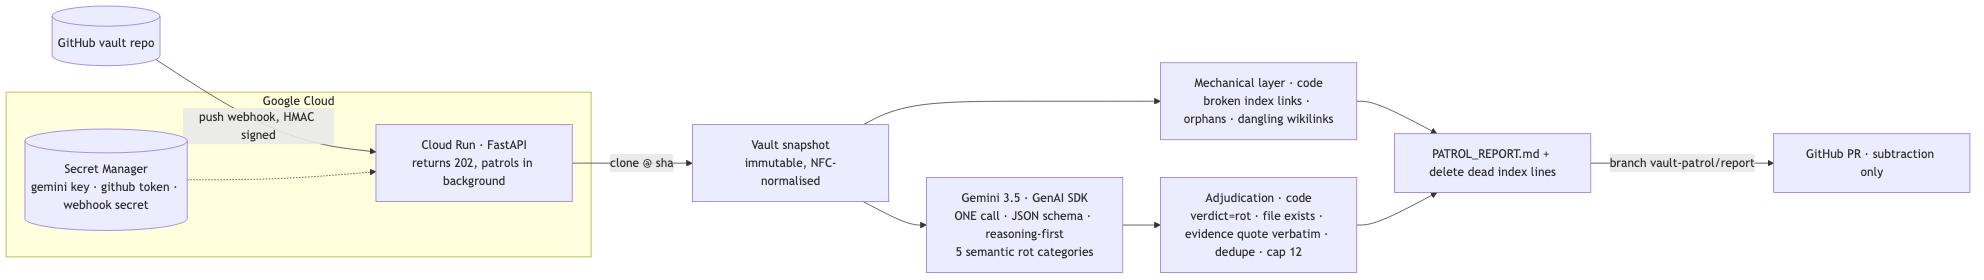
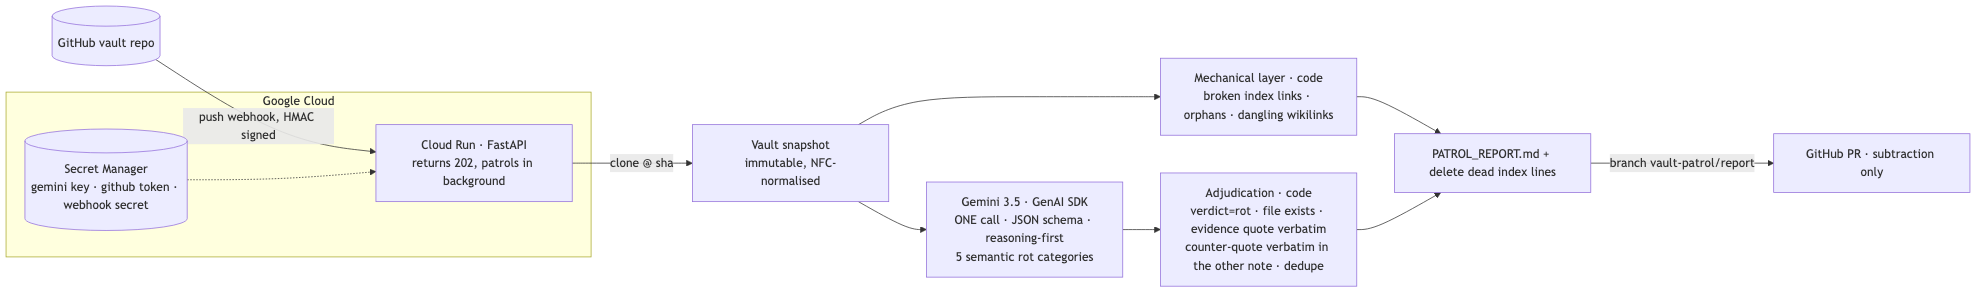
feat: counter-evidence quote for cross-note findings; drop finding cap

diff --git a/patrol/adjudicate.py b/patrol/adjudicate.py
@@ -4,12 +4,22 @@ from __future__ import annotations
 import logging
 import re
 
-from .models import Finding
+from .models import Category, Finding
 from .vault import Vault, nfc
 
 log = logging.getLogger(__name__)
 
-MAX_SEMANTIC_FINDINGS = 12
+# A finding in one of these categories is a claim ABOUT TWO NOTES: it is only true if the other
+# note actually says what the model says it says. So the model must quote that sentence too, and
+# code checks it the same way it checks the first quote. Without this, a real quote can carry an
+# invented rationale (measured 2026-08-30: a true MEMORY.md quote justified by a deletion record
+# that does not exist anywhere in the vault).
+CROSS_NOTE_CATEGORIES = frozenset({
+    Category.STALE_ACTIVE_REFERENCE,
+    Category.HARD_CONFLICT,
+    Category.FALSIFIED_CLAIM,
+    Category.OVERLAP_CLUSTER,
+})
 # Models routinely re-type a quoted line without its markdown emphasis: `file.md` comes back
 # as file.md, **bold** as bold. Both sides are stripped identically, so this forgives
 # decoration and nothing else — a paraphrase still fails.
@@ -20,11 +30,15 @@ def _norm(s: str) -> str:
     return DECORATION_RE.sub("", re.sub(r"\s+", " ", nfc(s))).strip()
 
 
-def evidence_present(v: Vault, f: Finding) -> bool:
-    note = v.get(nfc(f.file))
-    if note is None or not f.evidence_quote.strip():
+def quote_present(v: Vault, rel_path: str, quote: str) -> bool:
+    note = v.get(nfc(rel_path))
+    if note is None or not quote.strip():
         return False
-    return _norm(f.evidence_quote) in _norm(note.text)
+    return _norm(quote) in _norm(note.text)
+
+
+def evidence_present(v: Vault, f: Finding) -> bool:
+    return quote_present(v, f.file, f.evidence_quote)
 
 
 def _reject_reason(v: Vault, f: Finding) -> str | None:
@@ -35,11 +49,18 @@ def _reject_reason(v: Vault, f: Finding) -> str | None:
         return "file_missing"
     if not evidence_present(v, f):
         return "quote_not_found"
+    if f.category in CROSS_NOTE_CATEGORIES:
+        other = nfc(f.counter_evidence_file)
+        if not other or not f.counter_evidence_quote.strip() or other == nfc(f.file):
+            return "counter_evidence_missing"
+        if not quote_present(v, other, f.counter_evidence_quote):
+            return "counter_evidence_not_found"
     return None
 
 
 def adjudicate(v: Vault, proposed: list[Finding]) -> tuple[list[Finding], dict[str, int]]:
-    """Keep only findings with verdict=rot, a real file and verbatim evidence; dedupe; cap.
+    """Keep only findings with verdict=rot, a real file, verbatim evidence, and — for
+    cross-note categories — a verbatim counter-quote in the note that contradicts it.
     Returns (kept, reasons) where reasons counts every rejection by cause."""
     kept: list[Finding] = []
     seen: set[tuple[str, str, str]] = set()
@@ -60,7 +81,4 @@ def adjudicate(v: Vault, proposed: list[Finding]) -> tuple[list[Finding], dict[s
             continue
         seen.add(key)
         kept.append(f.model_copy(update={"file": nfc(f.file)}))
-
-    for f in kept[MAX_SEMANTIC_FINDINGS:]:
-        drop(f, "over_cap")
-    return kept[:MAX_SEMANTIC_FINDINGS], reasons
+    return kept, reasons

diff --git a/tests/test_adjudicate.py b/tests/test_adjudicate.py
@@ -2,9 +2,15 @@ from patrol.adjudicate import adjudicate
 from patrol.models import Action, Category, Finding
 
 
-def _f(file, quote, verdict="rot"):
-    return Finding(reasoning="r", category=Category.STALE_ACTIVE_REFERENCE, file=file,
-                   evidence_quote=quote, proposed_action=Action.MARK_HISTORICAL, verdict=verdict)
+COUNTER_FILE = "notes/changelog.md"
+COUNTER_QUOTE = "2026-07-03: llm-wiki daemon retired."
+
+
+def _f(file, quote, verdict="rot", *, category=Category.STALE_ACTIVE_REFERENCE,
+       counter_file=COUNTER_FILE, counter_quote=COUNTER_QUOTE):
+    return Finding(reasoning="r", category=category, file=file, evidence_quote=quote,
+                   counter_evidence_file=counter_file, counter_evidence_quote=counter_quote,
+                   proposed_action=Action.MARK_HISTORICAL, verdict=verdict)
 
 
 def test_verbatim_evidence_kept(demo_vault):
@@ -40,3 +46,38 @@ def test_quote_missing_only_markdown_decoration_is_kept(demo_vault):
 def test_paraphrase_is_still_dropped(demo_vault):
     kept, reasons = adjudicate(demo_vault, [_f("tools/stack.md", "use Memvid for semantic search")])
     assert kept == [] and reasons == {"quote_not_found": 1}
+
+
+def test_cross_note_finding_without_counter_quote_is_dropped(demo_vault):
+    kept, reasons = adjudicate(demo_vault, [
+        _f("tools/memvid.md", "Status: live.", counter_file="", counter_quote="")])
+    assert kept == [] and reasons == {"counter_evidence_missing": 1}
+
+
+def test_counter_quote_pointing_at_itself_is_dropped(demo_vault):
+    kept, reasons = adjudicate(demo_vault, [
+        _f("tools/memvid.md", "Status: live.",
+           counter_file="tools/memvid.md", counter_quote="Status: live.")])
+    assert kept == [] and reasons == {"counter_evidence_missing": 1}
+
+
+def test_invented_counter_quote_is_dropped(demo_vault):
+    """The hole this closes: a real quote carrying a rationale nothing in the vault supports."""
+    kept, reasons = adjudicate(demo_vault, [
+        _f("tools/memvid.md", "Status: live.",
+           counter_quote="2026-07-03: memvid deleted from disk after review.")])
+    assert kept == [] and reasons == {"counter_evidence_not_found": 1}
+
+
+def test_real_counter_quote_is_kept(demo_vault):
+    kept, reasons = adjudicate(demo_vault, [
+        _f("tools/memvid.md", "Status: live.",
+           counter_quote="2026-07-03: Memvid MCP server removed from settings.json")])
+    assert len(kept) == 1 and reasons == {}
+
+
+def test_pinned_old_version_needs_no_counter_quote(demo_vault):
+    kept, reasons = adjudicate(demo_vault, [
+        _f("tools/llm_starter.md", 'MODEL = "claude-3-5-sonnet-20240620"',
+           category=Category.PINNED_OLD_VERSION, counter_file="", counter_quote="")])
+    assert len(kept) == 1 and reasons == {}

diff --git a/patrol/report.py b/patrol/report.py
@@ -9,13 +9,19 @@ from .vault import Vault
 REPORT_NAME = "PATROL_REPORT.md"
 
 
+def _cell(text: str) -> str:
+    return text.replace("|", "\\|").replace("\n", " ")[:120]
+
+
 def _row(f: Finding) -> str:
-    quote = f.evidence_quote.replace("|", "\\|").replace("\n", " ")[:120]
     rel = ", ".join(f.related_files) if f.related_files else "—"
-    return f"| `{f.category.value}` | `{f.file}` | `{quote}` | {rel} | **{f.proposed_action.value}** | {f.reasoning} |"
+    proof = f"`{f.counter_evidence_file}`: `{_cell(f.counter_evidence_quote)}`" if f.counter_evidence_file else "—"
+    return (f"| `{f.category.value}` | `{f.file}` | `{_cell(f.evidence_quote)}` | {proof} | {rel} "
+            f"| **{f.proposed_action.value}** | {f.reasoning} |")
 
 
-TABLE_HEAD = ["| category | file | evidence | related | action | why |", "|---|---|---|---|---|---|"]
+TABLE_HEAD = ["| category | file | evidence | proof in other note | related | action | why |",
+              "|---|---|---|---|---|---|---|"]
 
 
 def _drop_summary(r: PatrolResult) -> str:
@@ -40,7 +46,7 @@ def _header(r: PatrolResult) -> list[str]:
 
 def render_report(r: PatrolResult) -> str:
     """The full flat table, written to PATROL_REPORT.md and printed by the CLI."""
-    rows = [_row(f) for f in [*r.mechanical, *r.semantic]] or ["| — | — | — | — | — | vault is clean |"]
+    rows = [_row(f) for f in [*r.mechanical, *r.semantic]] or ["| — | — | — | — | — | — | vault is clean |"]
     return "\n".join([*_header(r), *TABLE_HEAD, *rows, ""])
 
 

diff --git a/patrol/models.py b/patrol/models.py
@@ -34,6 +34,8 @@ class Finding(BaseModel):
     category: Category
     file: str = Field(description="Vault-relative path of the primary file.")
     evidence_quote: str = Field(description="Verbatim substring copied from `file` that proves the finding. Must exist exactly.")
+    counter_evidence_file: str = Field(default="", description="The OTHER note that makes `file` wrong. Required for cross-note categories.")
+    counter_evidence_quote: str = Field(default="", description="Verbatim substring copied from `counter_evidence_file`: the retirement line, contradicting rule, usage number or duplicated statement.")
     related_files: list[str] = Field(default_factory=list)
     proposed_action: Action
     verdict: Literal["rot", "unsure"] = Field(description="'unsure' when evidence is ambiguous; code will drop it.")

diff --git a/tests/test_semantic_path.py b/tests/test_semantic_path.py
@@ -9,7 +9,9 @@ DEMO = Path(__file__).resolve().parent.parent / "demo-vault"
 
 def _f(file, quote, verdict="rot"):
     return Finding(reasoning="r", category=Category.STALE_ACTIVE_REFERENCE, file=file,
-                   evidence_quote=quote, proposed_action=Action.MARK_HISTORICAL, verdict=verdict)
+                   evidence_quote=quote, counter_evidence_file="notes/changelog.md",
+                   counter_evidence_quote="2026-07-03: llm-wiki daemon retired.",
+                   proposed_action=Action.MARK_HISTORICAL, verdict=verdict)
 
 
 def test_patrol_path_keeps_only_verified_findings(monkeypatch):

diff --git a/docs/HANDOFF.md b/docs/HANDOFF.md
@@ -13,15 +13,15 @@
 
 | 项 | 状态 | 证据命令 | 预期输出 |
 |---|---|---|---|
-| 单测 | ✅ 25/25 | `cd ~/Desktop/Workspace/01_项目/vault-patrol && .venv/bin/pytest -q` | `25 passed`(全部不走网络:语义路径 stub、分批+批大小旋钮、.patrolignore、PR body、webhook 签名) |
+| 单测 | ✅ 30/30 | `cd ~/Desktop/Workspace/01_项目/vault-patrol && .venv/bin/pytest -q` | `30 passed`(全部不走网络:反证引用五连、语义路径 stub、分批+批大小旋钮、.patrolignore、PR body、webhook 签名) |
 | 机械层 CLI | ✅ | `.venv/bin/python -m patrol run demo-vault --no-model` | 表格 4 行:1 broken_link + 1 orphan + 2 dangling_wikilink |
 | webhook 签名/路由 | ✅ | 见 `app/main.py`;坏签名 401、ping 200、非默认分支 ignored | — |
 | Docker | ✅ | `docker build -q -t vault-patrol:dev . && docker run --rm -e GITHUB_WEBHOOK_SECRET=x -p 18080:8080 -d --name vp vault-patrol:dev && sleep 3 && curl -s localhost:18080/healthz; docker rm -f vp` | `{"ok":true}` |
-| Gemini 语义层 | ✅ 闸 1 通过(Vertex,location=global) | `set -a && source .env && set +a && .venv/bin/python -m patrol run demo-vault` | 5/5 类全中:6 semantic kept / 0 dropped(prompt 2026-08-30.2) |
-| 真 memory 仓实跑 | ✅ 175 note 分 2 批全送(不再截断) | `.venv/bin/python -m patrol run ~/.claude/projects/-Users-eddie-Desktop-Workspace/memory` | 79s;84 mechanical(32 orphan + 52 dangling)/ 10 semantic / 0 dropped,人判 9 真 1 假(prompt .3,见 3.5) |
+| Gemini 语义层 | ✅ 闸 1 通过(Vertex,location=global) | `set -a && source .env && set +a && .venv/bin/python -m patrol run demo-vault` | 5/5 类全中:7 semantic kept / 0 dropped(prompt 2026-08-30.4) |
+| 真 memory 仓实跑 | ✅ 175 note 分 2 批全送(不再截断) | `.venv/bin/python -m patrol run ~/.claude/projects/-Users-eddie-Desktop-Workspace/memory` | 87s;84 mechanical(32 orphan + 52 dangling)/ 10 semantic / 2 dropped(quote_not_found),人判 6 真 4 假(prompt .4,见 3.6) |
 | GitHub 开 PR 闭环 | ✅ 闸 2 完成(8-30 晚,--no-model) | `GITHUB_TOKEN=$(gh auth token) .venv/bin/python -m patrol repo Longado/vault-patrol-demo --no-model` | `PR: https://github.com/Longado/vault-patrol-demo/pull/1`;重跑只更新同一 PR |
-| Cloud Run | ✅ revision 3(prompt 2026-08-30.3)https://vault-patrol-35482708254.us-central1.run.app | `curl -s https://vault-patrol-35482708254.us-central1.run.app/health` | `{"ok":true}`(健康检查走 `/health`,`/healthz` 被 Cloud Run 前端截胡)|
-| 端到端 webhook | ✅ push demo 仓 → 日志 → PR 更新 | `gcloud run services logs read vault-patrol --region us-central1 --limit 40 \| grep patrolled` | `patrolled Longado/vault-patrol-demo @ cb5bb1f...: 4 mechanical / 6 semantic / 0 dropped → .../pull/1`,5 类全中 |
+| Cloud Run | ✅ revision 4(prompt 2026-08-30.4,两段引用)https://vault-patrol-35482708254.us-central1.run.app | `curl -s https://vault-patrol-35482708254.us-central1.run.app/health` | `{"ok":true}`(健康检查走 `/health`,`/healthz` 被 Cloud Run 前端截胡)|
+| 端到端 webhook | ✅ push demo 仓 → 日志 → PR 更新 | `gcloud run services logs read vault-patrol --region us-central1 --limit 40 \| grep patrolled` | `patrolled Longado/vault-patrol-demo @ ff5cd20...: 4 mechanical / 7 semantic / 0 dropped → .../pull/1`,5 类全中,PR 表格带「proof in other note」列 |
 | 架构图 PNG | ✅ `docs/architecture.png`(mermaid-cli 导出,2000px 白底) | `ls -la docs/architecture.png` | 约 68 KB |
 
 已知未验证的假设(接手时优先证伪):
@@ -160,6 +160,34 @@ Devpost 表单要填:赛道 Taskmaster;hosted URL 填 `https://vault-patrol-3548
    而且是按到达顺序砍,不是按质量。要提高真实产出得先动这个上限。
 2. 不限批下唯一那条假阳性(`MEMORY.md` 的 xrepo)引用原文是真的,但 reasoning 里"2026-07-03
    已删除"这个日期在仓里查无实据。引用逐字核实挡不住"引用为真、推理编造"这一类。
+
+## 3.6 反证引用(2026-08-30 轮 4)
+
+3.5 暴露的洞:引用逐字核实只能保证"这句话在文件里",管不住"这句话为真、但推理是编的"。实测那条
+`MEMORY.md` 的 xrepo 误报——引用原文真实,reasoning 却断言 xrepo_decision.md 里有"2026-07-03
+已删除"的记录,而全仓查无此句。
+
+补的闸:**跨文件的四类(stale_active_reference / hard_conflict / falsified_claim /
+overlap_cluster)必须再交一段反证引用**——另一个文件里那句"退役行 / 相反规则 / 使用次数 /
+重复陈述",代码按同样的方式逐字核对它。`pinned_old_version` 豁免(钉死的 id 本身就是证据)。
+新增 drop 原因 `counter_evidence_missing` / `counter_evidence_not_found`。
+
+把轮 3 那条误报原样喂回新闸(`file=MEMORY.md`,真引用,配它 reasoning 暗示的那句反证):
+
+```
+kept: 0 | reasons: {'counter_evidence_not_found': 1}
+不给反证的变体 -> {'counter_evidence_missing': 1}
+```
+
+同轮删掉 `MAX_SEMANTIC_FINDINGS = 12`——那是个凭空定的上限,3.5 里它按到达顺序砍掉 13~21 条
+合格发现,是发明边界不是真约束;去重仍在。
+
+真仓复跑(prompt .4,不限批):84 mechanical / 10 semantic kept / 2 dropped(都是 quote_not_found)。
+人工判定 **6 真 4 假**。四条假阳性全部来自 `ai_native_study/2026-04-19-*.md`——反证引用这次是
+真的(recall"保留不投资"、jianying"结案"、claude-den"停更"都对得上),问题变成了类别边界:那些是
+带 `topic:/date:/sources:` 头的研究笔记,prompt 第 1 条本来就把研究笔记排除在外。**失败模式从
+"编造依据"降级成了"类别判断偏松"**,后者危险性低得多,但还没解决——下一轮若要动,应该改 prompt
+第 1 条对研究笔记的措辞,或让 `.patrolignore` 收掉 `ai_native_study/`。
 
 ## 4. 提交后怎么沉淀(比赛跟日常是同一份代码)
 

diff --git a/docs/architecture.md b/docs/architecture.md
@@ -12,7 +12,7 @@ flowchart LR
     CR -- clone @ sha --> V[Vault snapshot<br/>immutable, NFC-normalised]
     V --> M[Mechanical layer · code<br/>broken index links · orphans · dangling wikilinks]
     V --> G[Gemini 3.5 · GenAI SDK<br/>ONE call · JSON schema · reasoning-first<br/>5 semantic rot categories]
-    G --> A[Adjudication · code<br/>verdict=rot · file exists · evidence quote verbatim · dedupe · cap 12]
+    G --> A[Adjudication · code<br/>verdict=rot · file exists · evidence quote verbatim<br/>counter-quote verbatim in the other note · dedupe]
     M --> R[PATROL_REPORT.md + delete dead index lines]
     A --> R
     R -- branch vault-patrol/report --> PR[GitHub PR · subtraction only]
@@ -28,6 +28,7 @@ flowchart LR
 | One model call per patrol | Compound failure: 3×95% = 86%. Loops, retries (2) and termination live in `runner.py`. |
 | `reasoning` is the first schema field | The model commits to a verdict only after writing why. |
 | Code verifies every quote | A finding whose `evidence_quote` is not a verbatim substring of the file is dropped and counted in `dropped`. The PR never carries a hallucinated citation. |
+| Two quotes, not one | Four of the five categories are claims about *two* notes, so the model must also quote the sentence in the other note that proves it — the retirement line, the contradicting rule, the usage number — and code checks that quote against that file too. A true quote can otherwise carry an invented rationale: on 2026-08-30 a real `MEMORY.md` line was justified by a deletion record that exists nowhere in the vault. `pinned_old_version` is exempt; the pinned id is its own evidence. |
 | Subtraction-only action enum | `delete_line / mark_historical / merge_into / add_arbitration_line / needs_human`. The agent cannot invent tasks or notes. |
 | No run database | Re-running updates the existing PR instead of opening a second one, so idempotency needs no state. `model_version` + `prompt_version` are stamped into every report for drift forensics. |
 | Same entry point locally | `python -m patrol run <dir>` is the identical code path without GitHub or GCP, so the tool survives after the hackathon. |

diff --git a/prompts/semantic.md b/prompts/semantic.md
@@ -1,4 +1,4 @@
-<!-- prompt_version: 2026-08-30.3 -->
+<!-- prompt_version: 2026-08-30.4 -->
 You are auditing a personal markdown knowledge vault for ROT. Rot means text that will
 mislead a future reader into acting on something that is no longer true.
 
@@ -19,9 +19,19 @@ You receive the vault index (if any) plus the full text of every note, each wrap
 5. falsified_claim — a note asserts X is alive / used daily / effective, but another note
    with usage numbers or a closure record shows it is not.
 
+Four of the five categories are claims about TWO notes: stale_active_reference,
+hard_conflict, falsified_claim and overlap_cluster are only true if some OTHER note says so.
+For those you must also quote the sentence in that other note which proves it — the
+retirement line, the contradicting rule, the usage number, the duplicated statement — in
+`counter_evidence_quote`, naming that note in `counter_evidence_file`. If you cannot find such
+a sentence, do not report the finding. Do not summarise or reconstruct it from memory: code
+checks this quote against that file exactly as it checks the first one, and drops the finding
+when it does not match. pinned_old_version needs no counter quote; the pinned id is the evidence.
+
 Rules you must obey:
 - `evidence_quote` must be a VERBATIM substring copied from `file` (same characters, same
-  punctuation). Code will reject any finding whose quote is not found in the file.
+  punctuation), and `counter_evidence_quote` a VERBATIM substring of `counter_evidence_file`.
+  Code will reject any finding whose quotes are not found in the files they name.
 - Only subtraction. Never propose new notes, new tasks or new tooling.
   Allowed actions: delete_line, mark_historical, merge_into, add_arbitration_line, needs_human.
 - If the evidence is ambiguous, set verdict to "unsure" instead of forcing a call.

diff --git a/README.md b/README.md
@@ -19,7 +19,7 @@ Built for the All Things Agentic Hackathon (Taskmaster track). Runs on Cloud Run
 | semantic | `hard_conflict` — two notes giving opposite instructions | Gemini, verified by code |
 | semantic | `falsified_claim` — "used daily" next to a log showing 1 use in 17 days | Gemini, verified by code |
 
-Every semantic finding must carry an `evidence_quote` that is a verbatim substring of the file — verbatim with markdown emphasis such as backticks and `**` ignored, since models routinely re-type a line without its decoration. A paraphrase still fails. If the quote is not found, code drops the finding, and the report says how many were dropped and why.
+Every semantic finding must carry an `evidence_quote` that is a verbatim substring of the file, and — for the four categories that are claims about two notes — a `counter_evidence_quote` that is a verbatim substring of the *other* note it accuses — verbatim with markdown emphasis such as backticks and `**` ignored, since models routinely re-type a line without its decoration. A paraphrase still fails. If the quote is not found, code drops the finding, and the report says how many were dropped and why.
 
 Live service: https://vault-patrol-35482708254.us-central1.run.app/health
 
